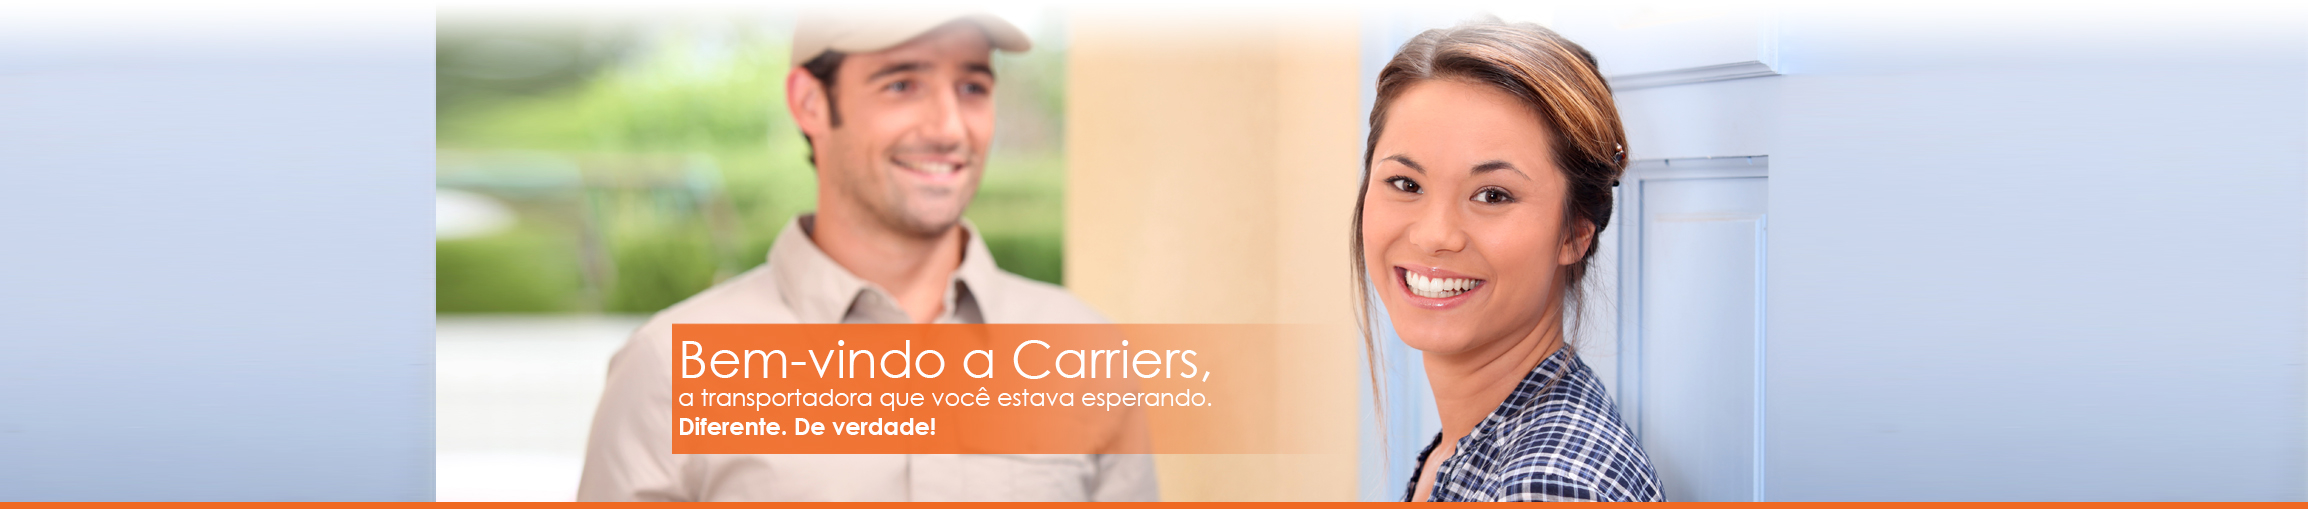
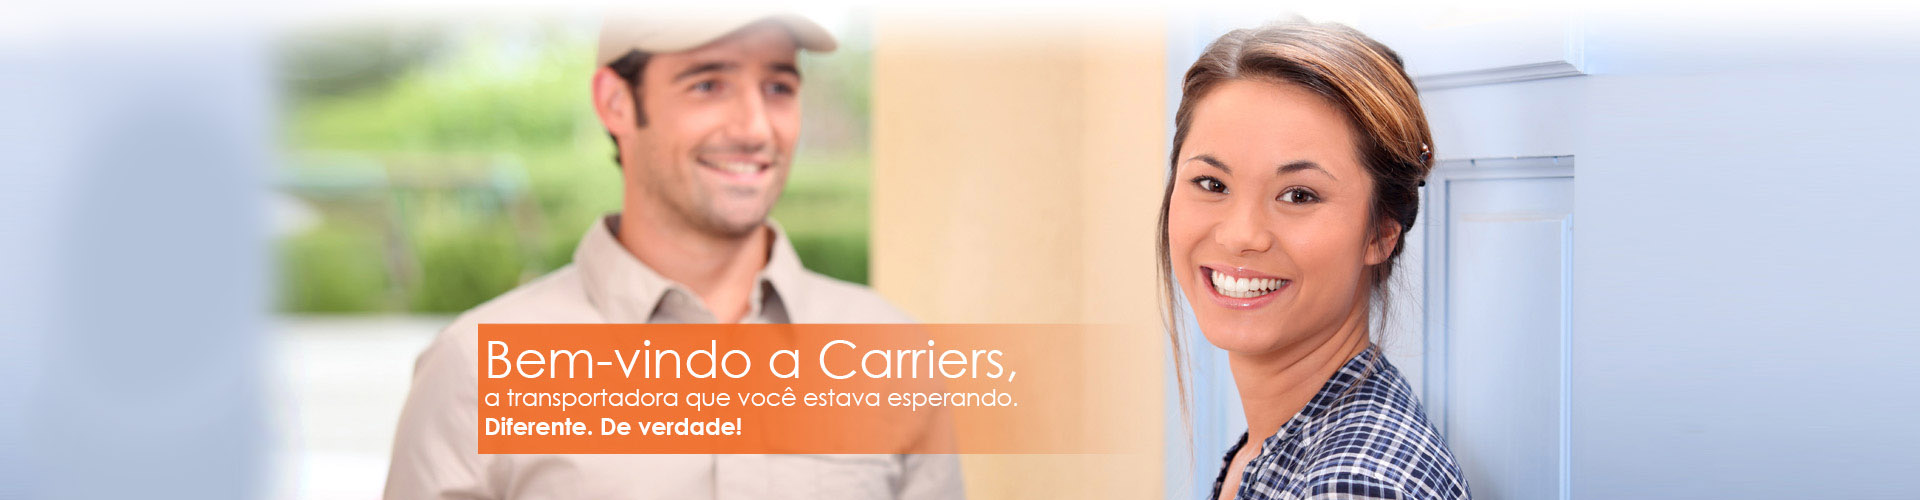
imagem do slide ajustada

diff --git a/index.html b/index.html
@@ -88,7 +88,7 @@
         <div class="slide">
             <div id="slide" class="slide-principal">
      
-              <div class="item"><img src="img/slide-1.png" alt="slide-1"></div>
+              <div class="item"><img src="img/slide-1.jpg" alt="slide-1"></div>
              
             </div>
         </div>
